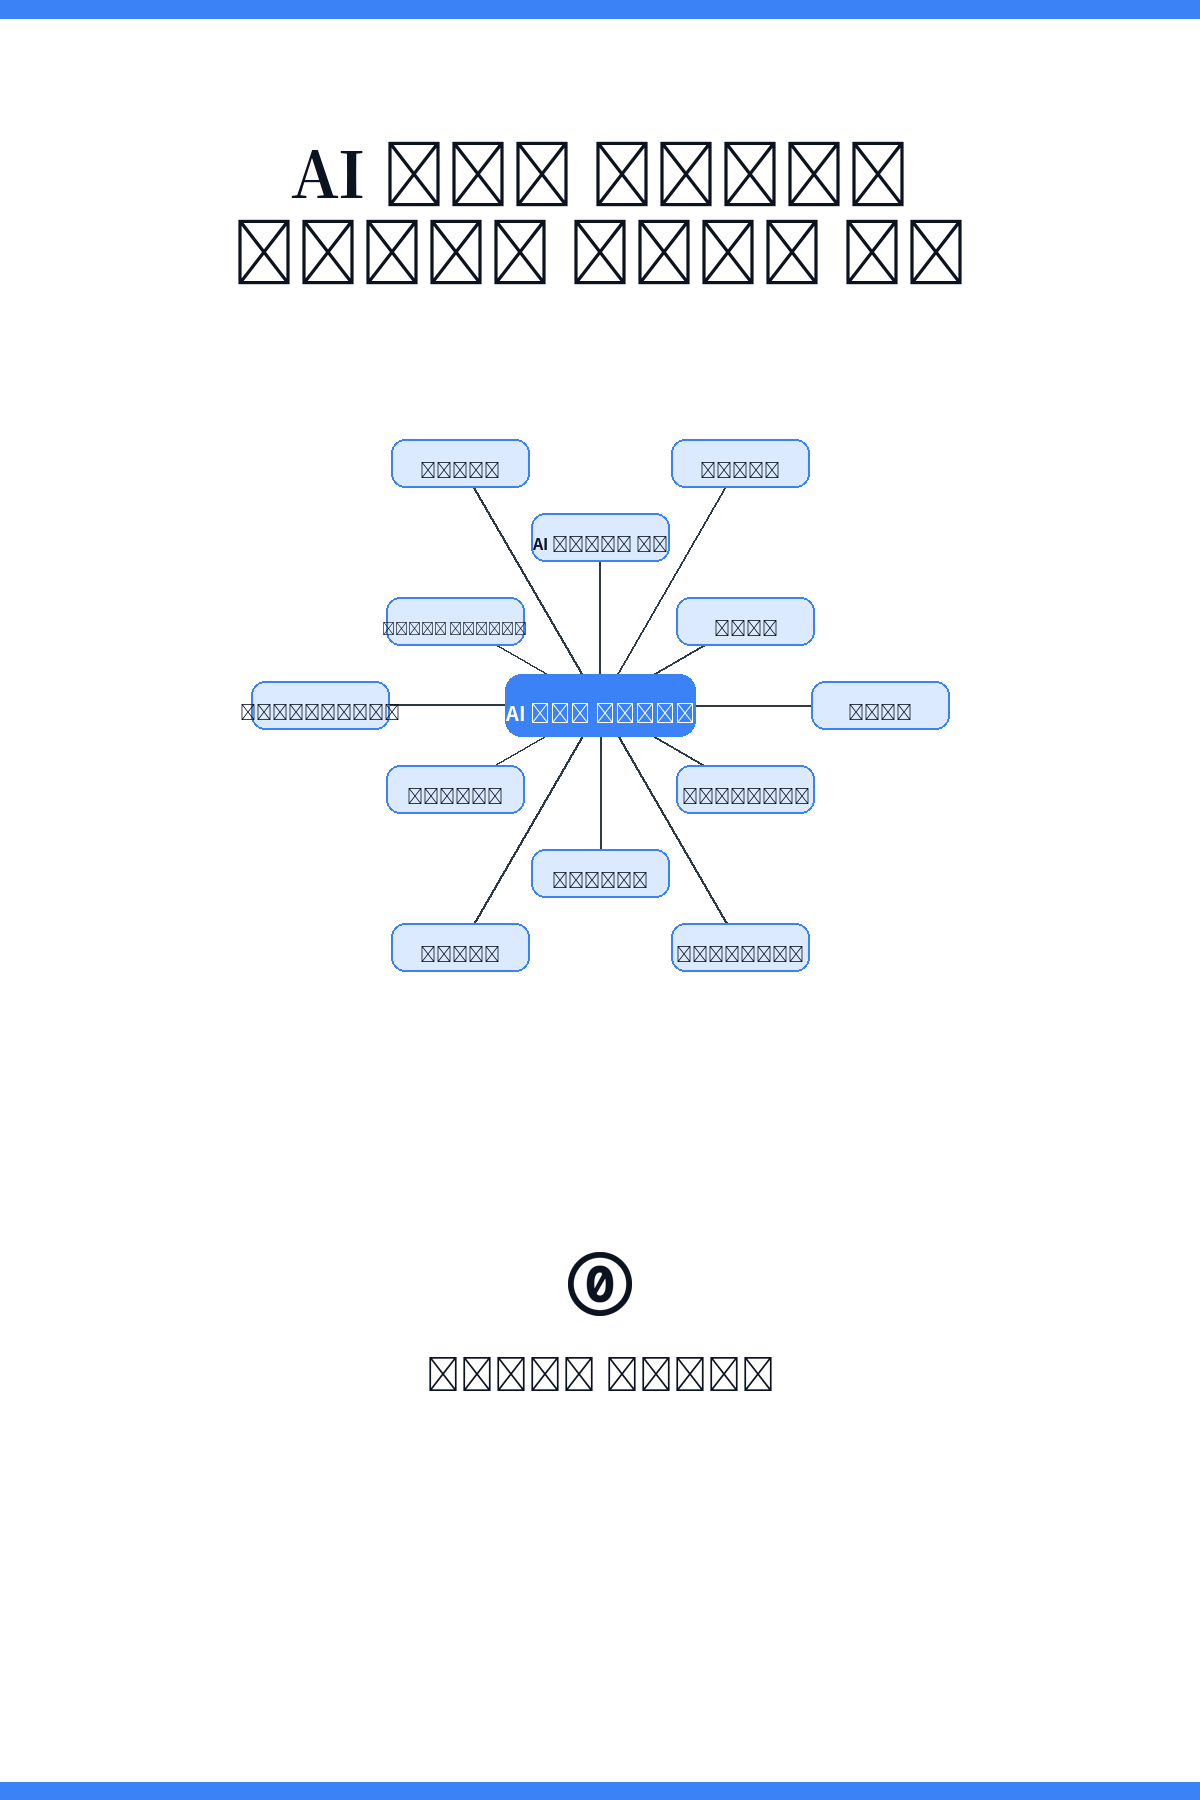
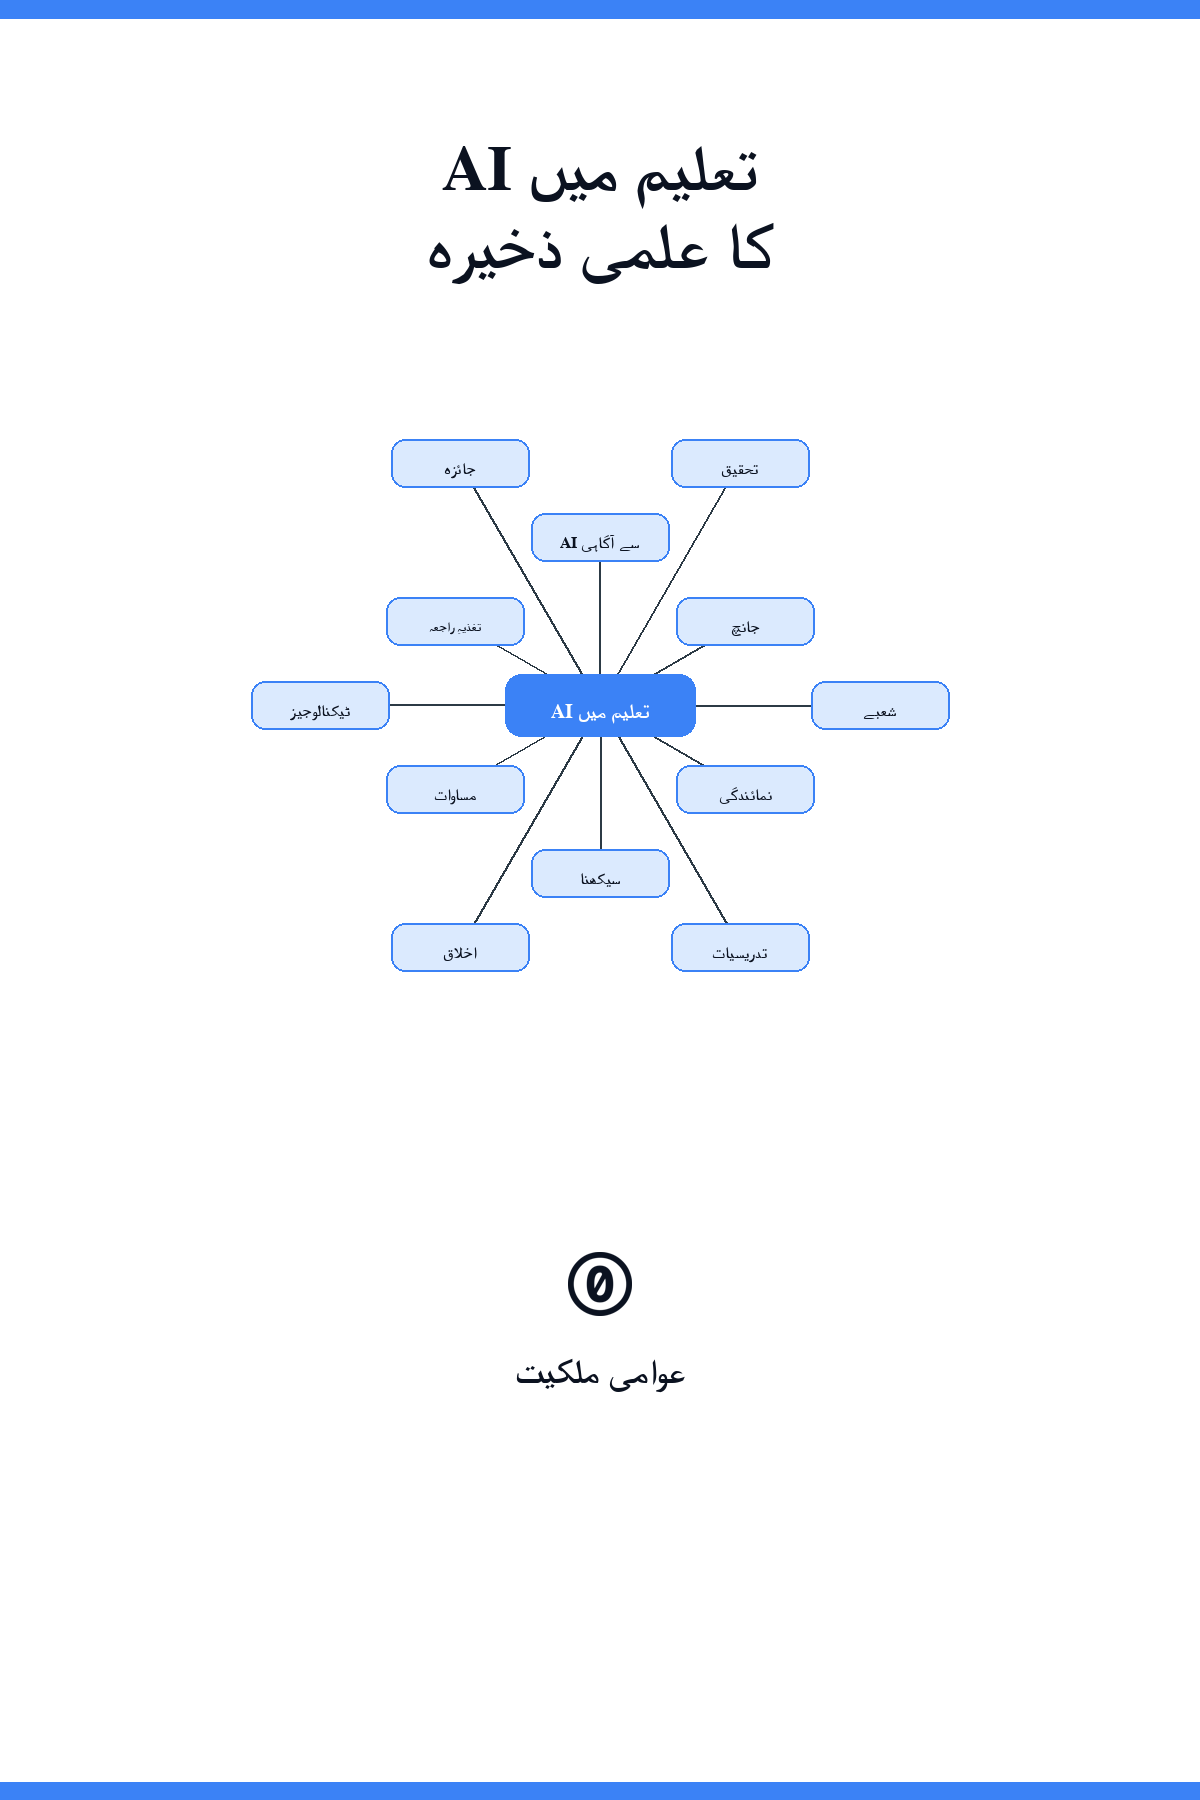
fix: render Bengali and Urdu offline covers, preserve RTL direction
- Route Bengali covers through FreeSans and Urdu through FreeSerifBold;
  the CJK fallback had no Bengali or Arabic glyphs, producing tofu boxes.
- Treat Urdu as RTL for cover shaping, and apply the PDF RTL CSS/page-number
  rules in the serial PDF path as well as the parallel path.
- Rebuild the Bengali and Urdu EPUB/PDF editions and refresh their release
  catalog entries after publication.
- Add publisher `--refresh-metadata` for rebuilt assets whose bytes differ
  from the committed catalog, with a unit test.

AI-Model: deepseek/deepseek-v4.1-flash-1017
AI-Role: revision; cover fonts; RTL verification
AI-Agent: Hermes-Agent

diff --git a/src/data/offlineArtifacts.ts b/src/data/offlineArtifacts.ts
@@ -264,11 +264,11 @@ export const offlineArtifacts: Record<string, Record<string, OfflineArtifact>> =
   "bn": {
     "epub": {
       "url": "https://github.com/edtechdev/aied/releases/download/offline-latest/aied.bn.epub",
-      "bytes": 3700068
+      "bytes": 3765667
     },
     "pdf": {
       "url": "https://github.com/edtechdev/aied/releases/download/offline-latest/aied.bn.pdf",
-      "bytes": 9673432
+      "bytes": 9819576
     },
     "llms": {
       "url": "https://github.com/edtechdev/aied/releases/download/offline-latest/llms.bn.txt",
@@ -282,11 +282,11 @@ export const offlineArtifacts: Record<string, Record<string, OfflineArtifact>> =
   "ur": {
     "epub": {
       "url": "https://github.com/edtechdev/aied/releases/download/offline-latest/aied.ur.epub",
-      "bytes": 3455827
+      "bytes": 3514869
     },
     "pdf": {
       "url": "https://github.com/edtechdev/aied/releases/download/offline-latest/aied.ur.pdf",
-      "bytes": 9627178
+      "bytes": 9761211
     },
     "llms": {
       "url": "https://github.com/edtechdev/aied/releases/download/offline-latest/llms.ur.txt",

diff --git a/tooling/build-epub.py b/tooling/build-epub.py
@@ -1257,8 +1257,16 @@ def _locale_cover_path():
     # would tofu — FreeSans carries both Latin and Devanagari (with GSUB shaping), so
     # it is the single-font choice for the Hindi cover.
     free_bold = '/usr/share/fonts/truetype/freefont/FreeSansBold.ttf'
+    free_sans = '/usr/share/fonts/truetype/freefont/FreeSans.ttf'
+    free_serif = '/usr/share/fonts/truetype/freefont/FreeSerifBold.ttf'
     dev_serif = '/usr/share/fonts/truetype/noto/NotoSerifDevanagari-Bold.ttf'
     dev_sans = '/usr/share/fonts/truetype/noto/NotoSansDevanagari-Bold.ttf'
+    # Bengali and Urdu need their own faces too. The CJK fallback has no
+    # Bengali or Arabic glyphs, so both covers previously rendered as tofu.
+    # FreeSans carries Bengali and Latin (the title and some labels include
+    # "AI"), while FreeSerifBold carries Urdu and Latin. Neither font needs the
+    # CJK face index, and Urdu joins Arabic letters, so it also needs the RTL
+    # shaping path below.
     # Hebrew and Arabic are the same trap in reverse: the CJK faces carry NO Hebrew or
     # Arabic glyphs, so falling through to them (as this code used to for every
     # non-Hindi locale) renders both covers entirely as tofu boxes. FreeSans carries
@@ -1287,10 +1295,10 @@ def _locale_cover_path():
     # algorithm — get_display() reorders RTL runs — plus arabic_reshaper for Arabic's
     # contextual letterforms. The libs are build-time-only extras; without them the
     # cover degrades (reversed/tofu text) instead of crashing the build.
-    IS_RTL = LOCALE in ('he', 'ar')
+    IS_RTL = LOCALE in ('he', 'ar', 'ur')
     try:
         from bidi.algorithm import get_display as _bidi_display
-        if LOCALE == 'ar':
+        if LOCALE in ('ar', 'ur'):
             import arabic_reshaper
             _rtl = lambda line: _bidi_display(arabic_reshaper.reshape(line))
         else:
@@ -1299,6 +1307,10 @@ def _locale_cover_path():
         _rtl = lambda line: line
     if LOCALE in ('ru', 'uk', 'tr') and os.path.exists(dejavu_serif) and os.path.exists(dejavu_sans):
         title_font_path, node_font_path = dejavu_serif, dejavu_sans
+    elif LOCALE == 'bn' and os.path.exists(free_sans):
+        title_font_path, node_font_path = free_sans, free_sans
+    elif LOCALE == 'ur' and os.path.exists(free_serif):
+        title_font_path, node_font_path = free_serif, free_serif
     elif LOCALE == 'hi' and os.path.exists(free_bold):
         title_font_path, node_font_path = free_bold, free_bold
     elif LOCALE == 'hi' and os.path.exists(dev_serif) and os.path.exists(dev_sans):
@@ -1793,6 +1805,19 @@ def build_pdf():
     with open(pdf_md, 'w', encoding='utf-8') as f:
         f.write('\n'.join(_tag_concept_heading(l) for l in src_md.split('\n')))
 
+    # An RTL edition needs the direction on the document and the page number
+    # on the other margin: the print stylesheet puts it bottom-right, which
+    # in a right-to-left book is the "wrong" side of every page. This is used
+    # by both the parallel and the serial PDF paths.
+    rtl_css = '' if not IS_RTL else (
+        'html, body { direction: rtl; }\n'
+        'body, p, li, dd, dt, blockquote, h1, h2, h3, h4, h5, h6, td, th { text-align: right; }\n'
+        'code, pre, samp, kbd { direction: ltr; unicode-bidi: isolate; text-align: left; }\n'
+        '@page { @bottom-left { content: counter(page); font-size: 9pt; color: #888; }'
+        ' @bottom-right { content: none; } }\n'
+        '@page notice { @bottom-left { content: counter(page); font-size: 9pt; color: #888; }'
+        ' @bottom-right { content: none; } }\n')
+
     # Header CSS injected into the PDF <head> (PDF-only — never touches EPUB).
     pdf_header = os.path.join(WORK_DIR, f'pdf-header{SUFFIX}.html')
     with open(pdf_header, 'w', encoding='utf-8') as f:
@@ -1800,6 +1825,7 @@ def build_pdf():
             '<style>\n'
             '/* Start each concept and each FAQ on a new page. */\n'
             'h3.conceptpage { break-before: page; }\n'
+            + rtl_css +
             '</style>\n'
         )
 
@@ -1808,17 +1834,6 @@ def build_pdf():
         # document (front matter + title block + TOC + body fragments) so the
         # TOC, internal links and page numbering stay continuous, then let
         # weasyprint paginate it exactly once.
-        # An RTL edition needs the direction on the document and the page number
-        # on the other margin: the print stylesheet puts it bottom-right, which
-        # in a right-to-left book is the "wrong" side of every page.
-        rtl_css = '' if not IS_RTL else (
-            'html, body { direction: rtl; }\n'
-            'body, p, li, dd, dt, blockquote, h1, h2, h3, h4, h5, h6, td, th { text-align: right; }\n'
-            'code, pre, samp, kbd { direction: ltr; unicode-bidi: isolate; text-align: left; }\n'
-            '@page { @bottom-left { content: counter(page); font-size: 9pt; color: #888; }'
-            ' @bottom-right { content: none; } }\n'
-            '@page notice { @bottom-left { content: counter(page); font-size: 9pt; color: #888; }'
-            ' @bottom-right { content: none; } }\n')
         t = pdf_parallel.build_pdf_parallel(
             pdf_md, PDF_OUT, chunks=PARALLEL_CHUNKS, lang=BOOK_LANG,
             text_dir='rtl' if IS_RTL else 'ltr',

diff --git a/tooling/scripts/publish-offline-editions.py b/tooling/scripts/publish-offline-editions.py
@@ -153,19 +153,22 @@ def selected_entries(catalog, locales, formats):
     return entries
 
 
-def validate_local(entry, assets_dir: Path):
+def validate_local(entry, assets_dir: Path, refresh_metadata: bool = False):
     path = (assets_dir / entry['filename']).resolve()
     if assets_dir.resolve() not in path.parents:
         raise offline_release.CatalogError(f'asset escapes assets-dir: {entry["filename"]}')
     if not path.is_file() or path.is_symlink():
         raise offline_release.CatalogError(f'missing regular asset: {path}')
     size = path.stat().st_size
-    if size != int(entry['bytes']):
-        raise offline_release.CatalogError(
-            f'{path}: bytes {size} != catalog {entry["bytes"]}')
     digest = offline_release.sha256_file(path)
-    if digest != entry['sha256']:
-        raise offline_release.CatalogError(f'{path}: sha256 does not match catalog')
+    if size != int(entry['bytes']) or digest != entry['sha256']:
+        if not refresh_metadata:
+            raise offline_release.CatalogError(
+                f'{path}: bytes/sha256 do not match catalog; '
+                'use --refresh-metadata for a rebuilt asset')
+        entry['bytes'] = size
+        entry['sha256'] = digest
+        print(f'refreshed metadata for {entry["filename"]}: {size} bytes, {digest[:12]}...')
     return path
 
 
@@ -183,6 +186,8 @@ def main():
                         help='perform the release mutation; without this it is a dry run')
     parser.add_argument('--dry-run', action='store_true',
                         help='explicitly select the safe no-mutation mode (the default)')
+    parser.add_argument('--refresh-metadata', action='store_true',
+                        help='accept rebuilt local files and refresh their sizes/SHA-256 in the catalog')
     parser.add_argument('--title', default='Latest offline editions')
     parser.add_argument('--journal', type=Path,
                         default=REPO / '.artifacts' / 'offline' / 'publish-journal.json')
@@ -199,7 +204,7 @@ def main():
     formats = {x.strip() for x in args.formats.split(',') if x.strip()}
     entries = selected_entries(catalog, locales, formats)
     for entry in entries:
-        path = validate_local(entry, args.assets_dir.resolve())
+        path = validate_local(entry, args.assets_dir.resolve(), args.refresh_metadata)
         print(f'checked {entry["filename"]} ({path.stat().st_size} bytes, {entry["sha256"][:12]}...)')
 
     if not args.publish:
@@ -248,7 +253,7 @@ def main():
 
         for entry in entries:
             filename = entry['filename']
-            source = validate_local(entry, args.assets_dir.resolve())
+            source = validate_local(entry, args.assets_dir.resolve(), args.refresh_metadata)
             old_id = asset_id(args.repo, args.tag, filename)
             staging_name = f'{filename}.staging-{run_id}'
             staged_id = upload_staged(args.repo, args.tag, source, staging_name)

diff --git a/tooling/tests/test_offline_release.py b/tooling/tests/test_offline_release.py
@@ -163,3 +163,13 @@ class PublisherTests(unittest.TestCase):
                 self.mod.validate_local(item, root)
             with self.assertRaises(offline_release.CatalogError):
                 self.mod.validate_local(dict(item, filename='../aied.pdf'), root)
+
+    def test_refresh_metadata_accepts_rebuilt_asset(self):
+        with tempfile.TemporaryDirectory() as td:
+            root = Path(td)
+            (root / 'aied.pdf').write_bytes(b'new bytes')
+            item = entry('aied.pdf', b'old bytes')
+            path = self.mod.validate_local(item, root, refresh_metadata=True)
+            self.assertEqual(path, root / 'aied.pdf')
+            self.assertEqual(item['bytes'], len(b'new bytes'))
+            self.assertEqual(item['sha256'], offline_release.sha256_file(path))

diff --git a/AGENTS.md b/AGENTS.md
@@ -251,7 +251,7 @@ FAQ slug to that page's `connected_faqs` frontmatter (renders a **Connected FAQs
 - **Delegating a section-writing batch to subagents (2026-09-19).** Fanning out "add the missing sections to these N pages" works, but a child's summary is a self-report, not evidence, so the parent verifies every page it was told about: the section is present and spelled exactly `## What this means for practice` / `## Limitations`, the order is practice → limitations → Connected Concepts → Connected Articles → Citation, the bullet count is inside 3-5 and 2-6, and every number in the added bullets appears in that page's `raw/papers/<slug>.md`. Give each child the same brief in its own `context` (it knows nothing of the conversation): the exact placement rule, "every number must appear in the full text — never invent one", "boilerplate limitations are a defect; omit the section and say why instead", "do not touch frontmatter, Connected lists or Citation", "US English", "verify a wikilink target exists before adding it", and "do not run the build, and never run the gate suite — it is permission-gated and the parent must ask for it first". Two failure modes to plan for: a page with no saved full text (raw under ~3,000 chars) cannot get evidence-bound bullets at all, so exclude it and name it in the report rather than letting a child improvise; and children run in parallel on separate files, so no child may write `index.md`, `journal.md`, `log.md` or the registry.
 - **`index.md` and `journal.md` were RETIRED (2026-09-27).** The dated journal is the site's `/journal` page, rendered from the content collections, and the counts live in the site header, so neither file is maintained any more: there is nothing to add a page to, no total to bump, and no gate to satisfy. Do not recreate them.
 - **Concept-screen record (HARD GATE, 2026-09-28).** Ingesting an article is not finished when its page is written. Every new article must be screened against the concept pages it speaks to, and where a finding is BOTH significant and distinguishing it is woven into that concept's narrative and the page's `updated` is bumped — see the `wiki-concept-narrative` skill for the delete test and the prior-coverage check. **Record the outcome in `concept-screen.yaml` at the repo root: one entry per article, with `integrated:` naming the concept pages that now carry a finding, or an empty `integrated:` and a `reason:` saying why nothing qualified.** Most entries have an empty `integrated:`, which is the expected result rather than a failure. `python3 tooling/scripts/check-concept-screen.py` (declared in `build.gates`, run by `run-gates.py`) fails for any article page created on or after `concept_screen.since` in `wiki.config.yaml` with no entry, for an entry with neither an integration nor a reason, and for an entry claiming an integration the named concept page does not actually contain — so the record cannot be satisfied by asserting work nobody did. It deliberately does NOT require an article to appear in some concept narrative: absence from every narrative is the correct outcome for much of the corpus (274 of 1,493 pages), so it would force exactly the over-insertion the distinguishing test exists to prevent. A green build does not check any of this. The step was skipped for a whole day's batch before the gate existed, and a stated rule that was silently violated needs a check rather than a stronger sentence.
-- **Offline editions and LLM text exports (release-backed):** the site links the EPUB, PDF and all `llms*.txt` exports to the managed GitHub Release tag `offline-latest` (`offlineBaseUrl`/`offlineReleaseTag` in `site.config.json`). The tracked `tooling/offline-editions.json` catalog records filenames, sizes and SHA-256 values; `tooling/scripts/publish-offline-editions.py` stages, verifies and promotes updates. These are **rebuilt ONLY on explicit request** — never automatically after content edits, never by CI, and never by a subagent. Build with **`PATH="$HOME/.local/bin:/usr/bin:$PATH" /usr/bin/python3 tooling/build-epub.py --output-dir .artifacts/offline/<build-id> --work-dir .artifacts/offline/<build-id>/work`** — the interpreter matters, see below. Never commit the generated binaries to `public/`; publish them through the release publisher and commit the catalog/docs.
+- **Offline editions and LLM text exports (release-backed):** the site links the EPUB, PDF and all `llms*.txt` exports to the managed GitHub Release tag `offline-latest` (`offlineBaseUrl`/`offlineReleaseTag` in `site.config.json`). The tracked `tooling/offline-editions.json` catalog records filenames, sizes and SHA-256 values; `tooling/scripts/publish-offline-editions.py` stages, verifies and promotes updates. These are **rebuilt ONLY on explicit request** — never automatically after content edits, never by CI, and never by a subagent. Build with **`PATH="$HOME/.local/bin:/usr/bin:$PATH" /usr/bin/python3 tooling/build-epub.py --output-dir .artifacts/offline/<build-id> --work-dir .artifacts/offline/<build-id>/work`** — the interpreter matters, see below. Never commit the generated binaries to `public/`; publish them through the release publisher and commit the catalog/docs. A rebuilt file whose bytes differ from the catalog needs `--refresh-metadata`; the publisher writes the new size/SHA-256 only after publication succeeds.
   - **A rebuild takes minutes, not half an hour.** The cost was never weasyprint's layout (~89 s for a ~2,000-page book) but pandoc's parse of the whole export: 757 s for one parse, run twice per build, and superlinear in document size. `tooling/pdf_parallel.py` splits the export at chapter boundaries, parses the chunks with parallel pandoc workers and reassembles one HTML document (front matter, title block, single TOC, body) for a single pagination pass, which took the English build from 24.9 min to 3.9 min. `AIED_PARALLEL_CHUNKS=1` restores the single-pass path. Heading ids and `[Heading text]` shortcut references are pinned before the split, because pandoc's auto ids are unique per parse and `implicit_header_references` cannot resolve across chunks — both were silent defects on the first attempt.
   - **Why the interpreter is pinned:** the build's two halves run under *different* interpreters. The PDF is generated by `pandoc`, which spawns the `weasyprint` console script, so it runs under **that script's shebang interpreter** no matter what you invoked. The metadata step does `import pikepdf` **in-process**, so it runs under **whatever you invoked**. Invoking with a Python that lacks pikepdf therefore still produces a PDF — it just silently omits `/Lang`. This is exactly what happened: an English PDF shipped with no language metadata, because the script ran under an interpreter without pikepdf and the step was only a warning. `/usr/bin/python3` has both `pikepdf` and `weasyprint`; `~/.local/bin` is first in PATH so `pandoc` is found.
   - **Not served by the site — served from the release.** `astro.config.mjs` strips `.epub`/`.pdf` from `dist/` as defense in depth, so `/aied/aied.epub` remains a 404. Do not re-add editions to `dist/`, and do not "simplify" by dropping `stripOfflineEditions`. `src/lib/offlineArtifacts.ts` rewrites per-locale links, including absolute URLs in the copyable AI prompt, to the release catalog.

diff --git a/tooling/README.md b/tooling/README.md
@@ -308,6 +308,9 @@ This writes `public/aied.epub` and `public/aied.pdf` for local verification. **T
 ```bash
 python3 tooling/scripts/publish-offline-editions.py --dry-run
 python3 tooling/scripts/publish-offline-editions.py --publish   # publication approval required
+# For a rebuilt asset whose bytes differ from the catalog, add --refresh-metadata
+# after rebuilding; the new size/SHA-256 is written only after publication succeeds.
+python3 tooling/scripts/publish-offline-editions.py --publish --refresh-metadata --locales es --formats epub,pdf
 ```
 
 It validates local bytes/SHA-256, stages each asset under a unique name, verifies the staged bytes, renames the old canonical asset to a run-scoped backup, promotes the staged asset, verifies the stable public URL after publishing the draft release, and writes `.artifacts/offline/publish-journal.json` for recovery. It never uses `gh release upload --clobber` on a live asset. The catalog (`tooling/offline-editions.json`) is committed; the binaries are not.
